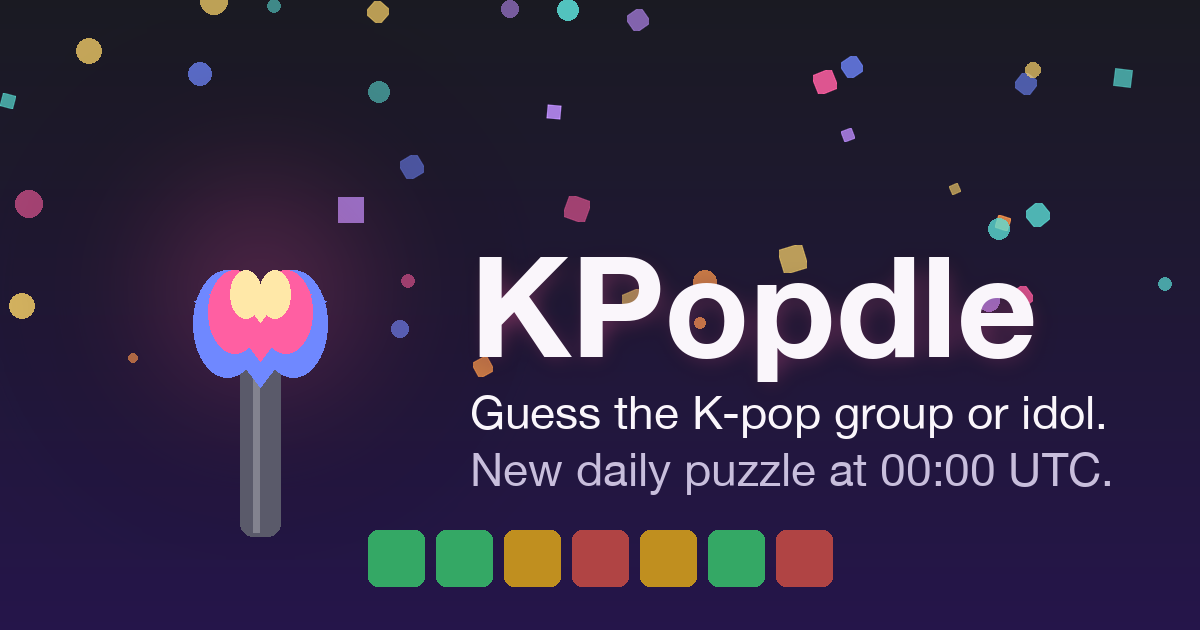
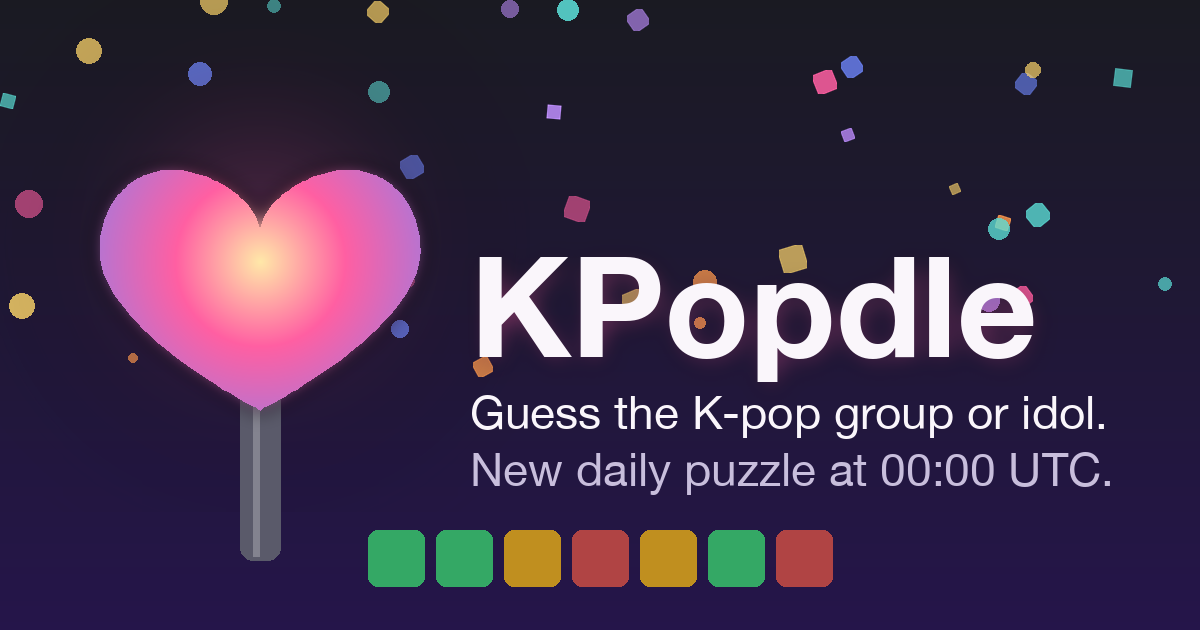
Improve OG lightstick: Bezier-sampled heart + radial gradient
The previous Pillow approximation stacked two circles + a triangle in
three flat colors to fake a heart shape. Result was visibly chunky with
color banding — fine at favicon scale, glaring at 1200x630.

Replaced with:

- Heart polygon sampled from the favicon's actual cubic-Bezier path
  (5 segments, 32 points each, ~160-point polygon). Smooth curve, no
  visible facets at OG scale.
- Per-pixel radial gradient with the same three stops as the favicon's
  <radialGradient> (warm yellow core → pink → cool blue rim) and the
  same off-center origin (cx=50%, cy=42%). Drawn into a temp RGBA, then
  composited via the heart polygon as an alpha mask.
- Soft outer glow (gaussian blur of the masked bulb) to echo the
  favicon's feGaussianBlur filter.
- Handle drawn first so the bulb overlaps its top edge correctly.

Done entirely in Pillow — no system deps. (An earlier attempt invoked
ImageMagick to rasterize favicon.svg directly, but ImageMagick's SVG
delegate calls rsvg-convert from librsvg, which isn't installed by
default, so it silently fell back to its internal MSVG renderer that
doesn't handle radial gradients or filters — producing a black bulb.
Removed that dead path; pure-Pillow is the only path now and it's
self-contained.)

Changed region(s): [[0.0617, 0.2413, 0.37, 0.6635], [0.185, 0.8444, 0.2467, 0.9048]]

diff --git a/scripts/render_og.py b/scripts/render_og.py
@@ -1,9 +1,11 @@
 """Render the Open Graph / Twitter Card image (1200x630 PNG) used as the
 social-link preview for the site.
 
-Composes the card with Pillow (no SVG rendering, no extra deps beyond the
-already-required pip Pillow). Saves to repo-root og-image.png. The build
-script copies that file into dist/ on every build.
+Everything is composed in Pillow — background gradient, confetti, the
+heart-shaped lightstick (Bezier-sampled from the favicon's actual SVG
+path + a per-pixel radial gradient), text, and the wordle-style emoji-
+grid hint at the bottom. No external SVG renderer is required, so the
+build works identically on any machine with Pillow installed.
 
 Why 1200x630: that's the spec for og:image used by Facebook, LinkedIn,
 Slack, Discord, and Twitter (twitter:card=summary_large_image). Smaller
@@ -103,12 +105,9 @@ def vertical_gradient(img: Image.Image, top: tuple, bot: tuple) -> None:
             px[x, y] = (r, g, b)
 
 
-def draw_lightstick(draw: ImageDraw.ImageDraw, cx: int, cy: int, scale: float) -> None:
-    """Stylized heart-shaped lightstick — matches the favicon. `cx, cy` is the
-    rough center of the bulb; `scale` ~= bulb radius."""
-    # Halo: small filled circle on a much larger transparent canvas, then a
-    # heavy gaussian blur so the result fades smoothly to fully transparent
-    # at the canvas edge (no visible bounding-box rectangle).
+def draw_lightstick_halo(img: Image.Image, cx: int, cy: int, scale: float) -> None:
+    """Soft warm-pink glow behind the lightstick. Used by both the
+    favicon-rasterized path and the Pillow fallback."""
     halo_canvas = int(scale * 4.5)
     halo_r = int(scale * 1.1)
     halo = Image.new("RGBA", (halo_canvas, halo_canvas), (0, 0, 0, 0))
@@ -120,64 +119,183 @@ def draw_lightstick(draw: ImageDraw.ImageDraw, cx: int, cy: int, scale: float) -
         fill=(255, 95, 162, 140),
     )
     halo = halo.filter(ImageFilter.GaussianBlur(scale * 0.8))
-    img = draw._image  # private but fine for our use; Pillow exposes no cleaner hook
     img.paste(halo, (cx - halo_center, cy - halo_center), halo)
 
-    # Handle (vertical bar below bulb)
+
+def _bezier_cubic(p0, p1, p2, p3, steps):
+    """Sample `steps` points along a cubic Bezier curve from p0 → p3 with
+    control points p1, p2. Returns list of (x, y) tuples."""
+    out = []
+    for i in range(steps + 1):
+        t = i / steps
+        mt = 1 - t
+        x = mt**3 * p0[0] + 3 * mt**2 * t * p1[0] + 3 * mt * t**2 * p2[0] + t**3 * p3[0]
+        y = mt**3 * p0[1] + 3 * mt**2 * t * p1[1] + 3 * mt * t**2 * p2[1] + t**3 * p3[1]
+        out.append((x, y))
+    return out
+
+
+def _heart_polygon(cx: float, cy: float, scale: float) -> list:
+    """Sample the favicon's heart-bulb cubic-Bezier path into a polygon.
+
+    Original SVG path (viewBox 0..64):
+        M 32 38
+        C 32 38, 12 28, 12 18
+        C 12 12, 16 8, 21 8
+        C 26 8, 32 12, 32 16
+        C 32 12, 38 8, 43 8
+        C 48 8, 52 12, 52 18
+        C 52 28, 32 38, 32 38 Z
+
+    Bottom point is (32, 38). Top dip is (32, 16). Left/right lobe peaks at
+    y=8. The path traces counterclockwise: bottom → left → up over the dip
+    → right → back to bottom.
+
+    `cx, cy` is the heart's visual center (NOT the SVG (32, 16) midpoint);
+    `scale` scales the whole shape so the bulb is roughly `2*scale` tall.
+    """
+    # Normalize SVG coords to a unit shape centered at (0, 0), with height = 1.
+    # SVG heart spans y=8..38 (height 30) and x=12..52 (width 40).
+    # Vertical center: y=23 in SVG → maps to 0 in normalized.
+    # Horizontal center: x=32 in SVG → maps to 0 in normalized.
+    def n(sx, sy):
+        return ((sx - 32) / 30.0, (sy - 23) / 30.0)
+
+    # 5 cubic segments. Each entry is (control1, control2, endpoint), starting
+    # from the previous endpoint. The first MoveTo is (32, 38) → normalized.
+    start = n(32, 38)
+    segments = [
+        (n(32, 38), n(12, 28), n(12, 18)),   # bottom → left side mid
+        (n(12, 12), n(16, 8),  n(21, 8)),    # → left lobe peak
+        (n(26, 8),  n(32, 12), n(32, 16)),   # → top dip
+        (n(32, 12), n(38, 8),  n(43, 8)),    # → right lobe peak
+        (n(48, 8),  n(52, 12), n(52, 18)),   # → right side mid
+        (n(52, 28), n(32, 38), n(32, 38)),   # → back to bottom
+    ]
+
+    poly = []
+    p0 = start
+    for c1, c2, p3 in segments:
+        # 32 samples per segment is well above the threshold for a visually
+        # smooth curve at 1200x630 — no visible polygon facets.
+        pts = _bezier_cubic(p0, c1, c2, p3, 32)
+        poly.extend(pts[:-1])  # drop the last to avoid duplicating the next start
+        p0 = p3
+    poly.append(start)
+
+    # Scale up + translate to (cx, cy)
+    return [(cx + px * scale * 2.0, cy + py * scale * 2.0) for (px, py) in poly]
+
+
+def _radial_gradient_fill(size: tuple, stops: list, center: tuple, radius: float) -> Image.Image:
+    """Build an RGBA image filled with a radial gradient. `stops` is a list
+    of (offset, (r, g, b)) where offset ∈ [0, 1]. Interpolates linearly
+    between consecutive stops based on each pixel's distance from `center`
+    normalized by `radius`."""
+    w, h = size
+    img = Image.new("RGBA", size)
+    px = img.load()
+    cx, cy = center
+    stops_sorted = sorted(stops, key=lambda s: s[0])
+    for y in range(h):
+        for x in range(w):
+            dx = x - cx
+            dy = y - cy
+            d = math.sqrt(dx * dx + dy * dy) / radius
+            d = min(1.0, max(0.0, d))
+            # Find the bracketing stops
+            for i in range(len(stops_sorted) - 1):
+                o0, c0 = stops_sorted[i]
+                o1, c1 = stops_sorted[i + 1]
+                if d <= o1:
+                    t = (d - o0) / (o1 - o0) if o1 > o0 else 0
+                    r = round(c0[0] + (c1[0] - c0[0]) * t)
+                    g = round(c0[1] + (c1[1] - c0[1]) * t)
+                    b = round(c0[2] + (c1[2] - c0[2]) * t)
+                    px[x, y] = (r, g, b, 255)
+                    break
+            else:
+                px[x, y] = (*stops_sorted[-1][1], 255)
+    return img
+
+
+def draw_lightstick(draw: ImageDraw.ImageDraw, cx: int, cy: int, scale: float) -> None:
+    """Heart-shaped lightstick + handle + halo, composed entirely in Pillow.
+    Builds the heart from a Bezier sampling of the favicon's actual SVG path,
+    then fills it via a per-pixel radial gradient. Result matches the favicon
+    much more closely than the chunky stacked-circles approximation we had
+    before — no extra system deps, no need for rsvg-convert / librsvg.
+
+    `cx, cy` is the rough visual center of the bulb; `scale` ~= bulb half-height.
+    """
+    img = draw._image
+    draw_lightstick_halo(img, cx, cy - int(scale * 0.4), scale)
+
+    # ── Handle (drawn FIRST so the bulb overlaps the top of the handle) ──
     handle_w = int(scale * 0.34)
     handle_h = int(scale * 1.7)
     handle_x = cx - handle_w // 2
-    handle_y = cy + int(scale * 0.35)
+    handle_y = cy + int(scale * 0.55)
     draw.rounded_rectangle(
         (handle_x, handle_y, handle_x + handle_w, handle_y + handle_h),
         radius=handle_w // 3,
-        fill=(90, 90, 106),
+        fill=(90, 90, 106, 255),
     )
-    # Highlight stripe down the handle
+    # Subtle highlight stripe down the handle (favicon parity)
     stripe_x = handle_x + handle_w // 3
     draw.rectangle(
         (stripe_x, handle_y + 4, stripe_x + max(2, handle_w // 6), handle_y + handle_h - 4),
         fill=(255, 255, 255, 64),
     )
 
-    # Heart-shaped bulb — built from two circles + a downward-pointing triangle.
-    r = int(scale * 0.55)
-    lcx = cx - r // 2 - 2
-    rcx = cx + r // 2 + 2
-    cy_top = cy - int(scale * 0.15)
+    # ── Bulb: heart polygon filled via radial gradient ──
+    poly = _heart_polygon(cx, cy, scale)
+    xs = [p[0] for p in poly]
+    ys = [p[1] for p in poly]
+    pad = int(scale * 0.5)
+    bbox_x0 = int(min(xs)) - pad
+    bbox_y0 = int(min(ys)) - pad
+    bbox_x1 = int(max(xs)) + pad
+    bbox_y1 = int(max(ys)) + pad
+    bbox_w = bbox_x1 - bbox_x0
+    bbox_h = bbox_y1 - bbox_y0
 
-    # Tinted heart drawn via gradient: paint a radial-ish blend by stacking
-    # progressively-smaller filled hearts in different colors.
-    def heart_polygon(s_r):
-        # Returns the outline of a heart filling roughly the s_r circles + triangle below.
-        # Two lobes (circles) and a triangle that meets at (cx, cy + s_r*1.5).
-        lobe_left  = (cx - s_r, cy_top, cx, cy_top + s_r * 0.4)
-        lobe_right = (cx, cy_top, cx + s_r, cy_top + s_r * 0.4)
-        # We'll draw circles + triangle below
-        return (lobe_left, lobe_right, (
-            (cx - s_r, cy_top + int(s_r * 0.15)),
-            (cx + s_r, cy_top + int(s_r * 0.15)),
-            (cx, cy_top + int(s_r * 1.55)),
-        ))
+    # Mask: 1-channel image where the heart shape is 255, rest 0.
+    mask = Image.new("L", (bbox_w, bbox_h), 0)
+    mask_draw = ImageDraw.Draw(mask)
+    local_poly = [(p[0] - bbox_x0, p[1] - bbox_y0) for p in poly]
+    mask_draw.polygon(local_poly, fill=255)
 
-    # Outermost layer: cool rim
-    layers = [
-        (r,           BULB_COLD),
-        (int(r * 0.78), BULB_MID),
-        (int(r * 0.45), BULB_HOT),
-    ]
-    for layer_r, color in layers:
-        left = (cx - layer_r - 1, cy_top - 2, cx + 1, cy_top + layer_r * 1.6)
-        right = (cx - 1,            cy_top - 2, cx + layer_r + 1, cy_top + layer_r * 1.6)
-        draw.ellipse(left, fill=color)
-        draw.ellipse(right, fill=color)
-        # Bottom triangle
-        tri = [
-            (cx - layer_r, cy_top + int(layer_r * 0.45)),
-            (cx + layer_r, cy_top + int(layer_r * 0.45)),
-            (cx, cy_top + int(layer_r * 1.75)),
-        ]
-        draw.polygon(tri, fill=color)
+    # Gradient: favicon uses radialGradient cx=50% cy=40% r=55% with stops at
+    # 0% #ffe8a8 (warm core), 35% #ff5fa2 (pink), 100% #6f88ff (blue rim).
+    # Translate to bbox-local pixel coords:
+    grad_cx = bbox_w * 0.5
+    grad_cy = bbox_h * 0.42  # slight upward bias matches the favicon
+    grad_r = max(bbox_w, bbox_h) * 0.55
+    grad = _radial_gradient_fill(
+        (bbox_w, bbox_h),
+        stops=[
+            (0.00, BULB_HOT),
+            (0.35, BULB_MID),
+            (1.00, BULB_COLD),
+        ],
+        center=(grad_cx, grad_cy),
+        radius=grad_r,
+    )
+
+    # Composite the gradient onto a transparent canvas masked by the heart shape.
+    bulb = Image.new("RGBA", (bbox_w, bbox_h), (0, 0, 0, 0))
+    bulb.paste(grad, (0, 0), mask)
+
+    # A faint outer glow to echo the SVG's feGaussianBlur filter. Pad a bit
+    # so the blur has room to bleed outside the bulb's bounding box.
+    glow_pad = int(scale * 0.3)
+    glow_canvas = Image.new("RGBA", (bbox_w + glow_pad * 2, bbox_h + glow_pad * 2), (0, 0, 0, 0))
+    glow_canvas.paste(bulb, (glow_pad, glow_pad), bulb)
+    glow = glow_canvas.filter(ImageFilter.GaussianBlur(scale * 0.08))
+    # Paint glow + bulb (glow first, then the sharp bulb on top).
+    img.paste(glow, (bbox_x0 - glow_pad, bbox_y0 - glow_pad), glow)
+    img.paste(bulb, (bbox_x0, bbox_y0), bulb)
 
 
 def draw_confetti(draw: ImageDraw.ImageDraw, w: int, h: int) -> None: